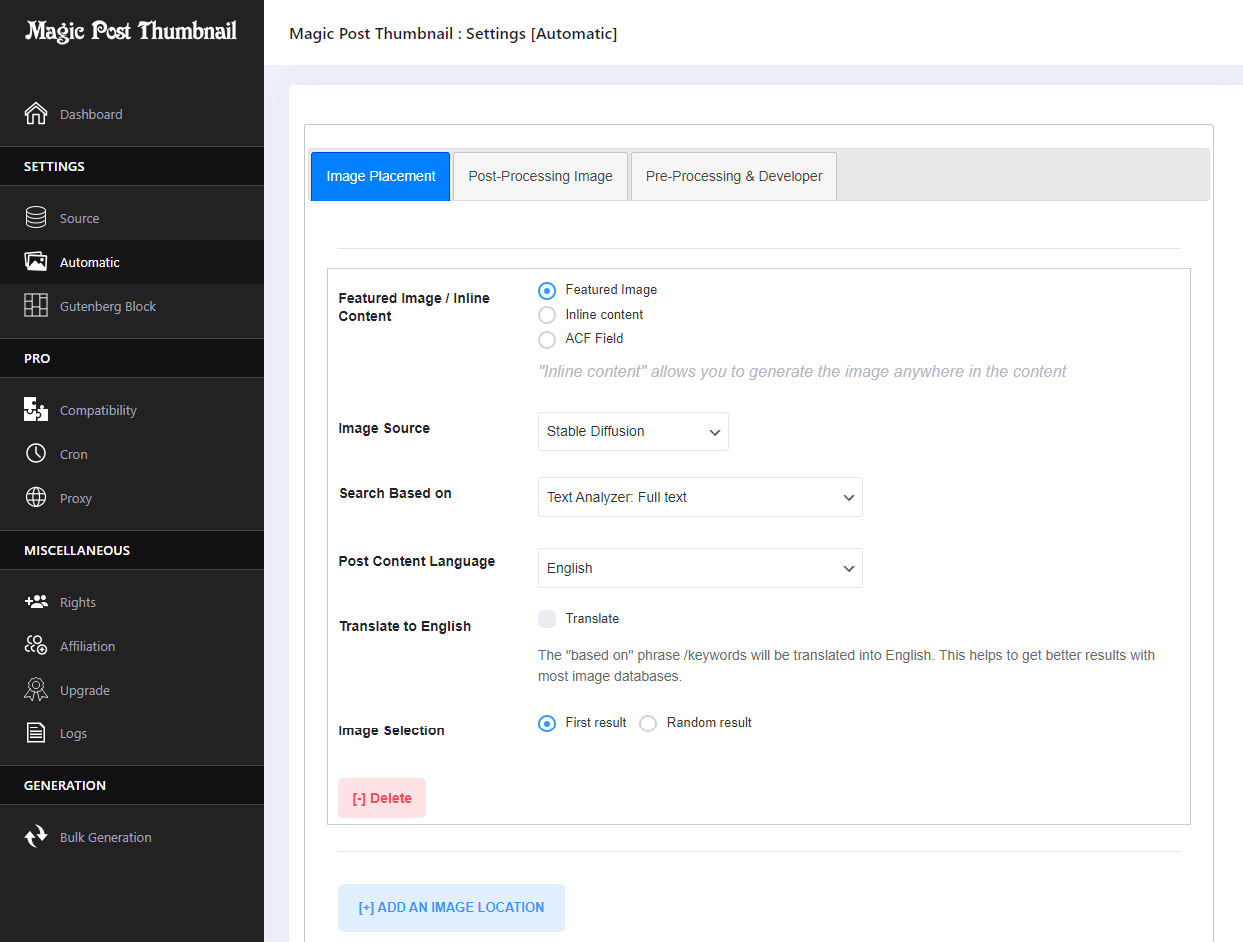
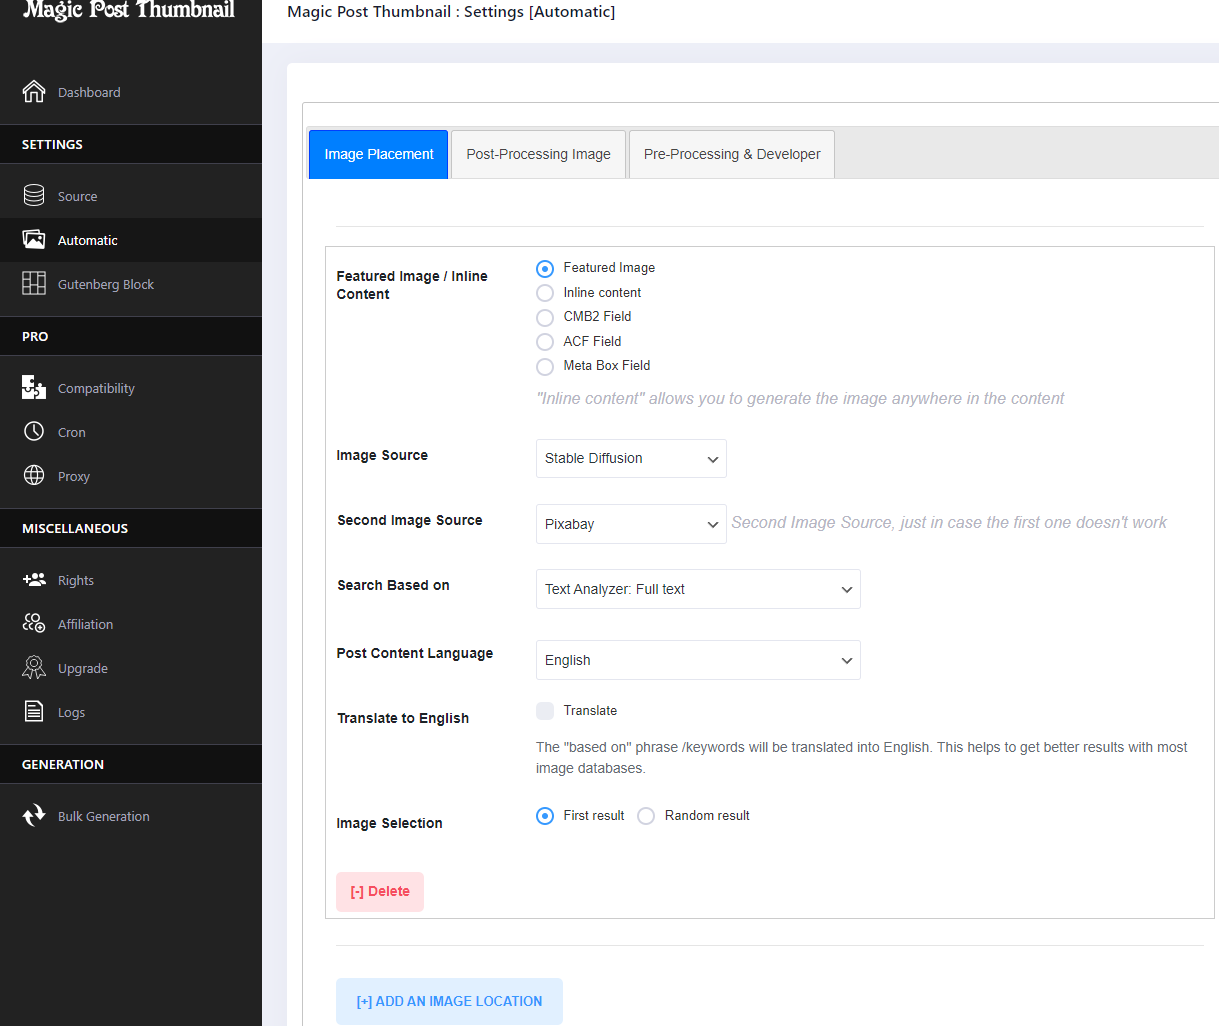
6.0.3

diff --git a/magic-post-thumbnail/admin/class-magic-post-thumbnail-generation.php b/magic-post-thumbnail/admin/class-magic-post-thumbnail-generation.php
@@ -442,34 +442,34 @@ class Magic_Post_Thumbnail_Generation extends Magic_Post_Thumbnail_Admin {
                 }
             }
         } else {
-            /* SET ALL PARAMETERS */
-            $array_parameters = $this->MPT_Get_Parameters( $img_block, $options, $search );
-            $api_url = $array_parameters['url'];
-            unset($array_parameters['url']);
-            if ( !isset( $api_url ) ) {
-                $log->error( 'API URL not provided', array(
+            // Process the main image block
+            $result = $this->MPT_Process_Image_Block(
+                $img_block,
+                $options,
+                $search,
+                $log,
+                $id
+            );
+            // If the first API call fails, try the second image bank
+            if ( $result === false && isset( $img_block['api_chosen_2'] ) && $img_block['api_chosen_2'] !== 'none' ) {
+                $log->info( 'Second image bank used', array(
                     'post' => $id,
                 ) );
+                $img_block['api_chosen'] = $img_block['api_chosen_2'];
+                $result = $this->MPT_Process_Image_Block(
+                    $img_block,
+                    $options,
+                    $search,
+                    $log,
+                    $id
+                );
+            }
+            // If both API calls fail, return false
+            if ( $result === false ) {
                 return false;
             }
-            /* GET THE IMAGE URL */
-            list( $url_results, $file_media, $alt_img, $caption_img ) = $this->MPT_Generate(
-                //$options['api_chosen'],
-                $img_block['api_chosen'],
-                $api_url,
-                $array_parameters,
-                $img_block['selected_image'],
-                false,
-                $search
-            );
-            if ( !isset( $url_results ) || !isset( $file_media ) ) {
-                if ( !isset( $url_results ) || !isset( $file_media ) ) {
-                    $log->error( 'No results', array(
-                        'post' => $id,
-                    ) );
-                    return false;
-                }
-            }
+            // Extract results and continue processing
+            extract( $result );
         }
         $compatibility = wp_parse_args( get_option( 'MPT_plugin_compatibility_settings' ), $this->MPT_default_options_compatibility_settings( TRUE ) );
         $path_parts = pathinfo( $url_results );
@@ -672,6 +672,59 @@ class Magic_Post_Thumbnail_Generation extends Magic_Post_Thumbnail_Admin {
                 }
             }
         }
+    }
+
+    /**
+     * Generate an image and handle related errors
+     * 
+     * @param array $img_block Image block settings
+     * @param array $options Plugin options
+     * @param string $search Search term
+     * @param object $log Logger instance
+     * @param int $id Post ID
+     * @return array|false Returns generated image data or false on failure
+     */
+    private function MPT_Process_Image_Block(
+        $img_block,
+        $options,
+        $search,
+        $log,
+        $id
+    ) {
+        // Set all parameters
+        $array_parameters = $this->MPT_Get_Parameters( $img_block, $options, $search );
+        $api_url = ( isset( $array_parameters['url'] ) ? $array_parameters['url'] : null );
+        unset($array_parameters['url']);
+        // Check if API URL is provided
+        if ( !$api_url ) {
+            $log->error( 'API URL not provided', array(
+                'post' => $id,
+            ) );
+            return false;
+        }
+        // Get the image URL
+        list( $url_results, $file_media, $alt_img, $caption_img ) = $this->MPT_Generate(
+            $img_block['api_chosen'],
+            $api_url,
+            $array_parameters,
+            $img_block['selected_image'],
+            false,
+            $search
+        );
+        // Check if results are valid
+        if ( !isset( $url_results ) || !isset( $file_media ) ) {
+            $log->error( 'No results', array(
+                'post' => $id,
+            ) );
+            return false;
+        }
+        // Return the generated image data
+        return compact(
+            'url_results',
+            'file_media',
+            'alt_img',
+            'caption_img'
+        );
     }
 
     /**
@@ -1458,6 +1511,14 @@ class Magic_Post_Thumbnail_Generation extends Magic_Post_Thumbnail_Admin {
             );
         } else {
             $result_body = json_decode( $result['body'], true );
+            // Dall-e: Catch the error
+            if ( $service == 'dallev1' && $result_body['error']['message'] ) {
+                //error_log( print_r( $result, true ) );
+                $log = $this->MPT_monolog_call();
+                $log->info( 'Problem with Dalle', array(
+                    'Error message' => $result_body['error']['message'],
+                ) );
+            }
             if ( $result['response']['code'] != '200' ) {
                 return false;
             }

diff --git a/magic-post-thumbnail/admin/partials/tabs/automatic/places.php b/magic-post-thumbnail/admin/partials/tabs/automatic/places.php
@@ -242,6 +242,51 @@ if ( !empty( $image_blocks ) ) {
                 </td>
             </tr>
 
+
+            <tr valign="top" class="section_custom_image_bank image-block-<?php 
+        echo $blockIndex;
+        ?> mid-add-block-img">
+                <th scope="row">
+                    <label for="hseparator"><?php 
+        esc_html_e( 'Second Image Source', 'mpt' );
+        ?></label>
+                </th>
+                <td class="custom_image_size" valign="top">
+                    <label>
+                        <select name="MPT_plugin_main_settings[image_block][<?php 
+        echo $blockIndex;
+        ?>][api_chosen_2]" class="select-custom-location form-control">
+                            <option value="none"><?php 
+        esc_html_e( 'None', 'mpt' );
+        ?></option>
+                            <?php 
+        foreach ( $list_api_auto as $api_auto_name => $api_auto_id ) {
+            if ( true === $api_auto_id[1] ) {
+                $disabled = '';
+            } else {
+                $disabled = 'disabled';
+            }
+            ?>
+                                        <option <?php 
+            echo $disabled;
+            ?> value="<?php 
+            echo $api_auto_id[0];
+            ?>" <?php 
+            echo ( isset( $block['api_chosen_2'] ) ? selected( $block['api_chosen_2'], $api_auto_id[0], false ) : '' );
+            ?>><?php 
+            echo $api_auto_name;
+            ?></option>
+                            <?php 
+        }
+        ?>
+                        </select> 
+                        <i><?php 
+        esc_html_e( 'Second Image Source, just in case the first one doesn\'t work', 'mpt' );
+        ?></i>
+                    </label>
+                </td>
+            </tr>
+
             <?php 
         include 'basedon.php';
         $class_remove_btn = 'remove-block-btn-hidden';

diff --git a/magic-post-thumbnail/admin/partials/tabs/automatic/places_template.php b/magic-post-thumbnail/admin/partials/tabs/automatic/places_template.php
@@ -158,6 +158,36 @@ foreach ( $list_api_auto as $api_auto_name => $api_auto_id ) {
     </td>
 </tr>
 
+<tr valign="top" class="section_custom_image_bank hidden image-location-template image-block-0 mid-add-block-img">
+    <th scope="row">
+        <label for="hseparator"><?php 
+esc_html_e( 'Second Image Source', 'mpt' );
+?></label>
+    </th>
+    <td class="custom_image_size" valign="top">
+        <label>
+            <select name="MPT_plugin_main_settings[image_block][0][api_chosen_2]" class="select-custom-location form-control">
+                <option value="none"><?php 
+esc_html_e( 'None', 'mpt' );
+?></option>
+                <?php 
+foreach ( $list_api_auto as $api_auto_name => $api_auto_id ) {
+    if ( true === $api_auto_id[1] ) {
+        ?>
+                        <option value="<?php 
+        echo $api_auto_id[0];
+        ?>"><?php 
+        echo $api_auto_name;
+        ?></option>
+                <?php 
+    }
+}
+?>
+            </select> 
+        </label>
+    </td>
+</tr>
+
 
 
 <tr valign="top" class="section_basedon image-location-template hidden image-block-0 mid-add-block-img">

diff --git a/magic-post-thumbnail/magic-post-thumbnail.php b/magic-post-thumbnail/magic-post-thumbnail.php
@@ -10,7 +10,7 @@
  * Plugin Name:       Magic Post Thumbnail
  * Plugin URI:        http://wordpress.org/plugins/magic-post-thumbnail/
  * Description:       Add stunning images to your posts effortlessly, as featured images or within content. Magic Post Thumbnail sources them automatically from multiple image banks.
- * Version:           6.0.2
+ * Version:           6.0.3
  * Author:            Magic Post Thumbnail
  * Author URI:        https://magic-post-thumbnail.com/
  * License:           GPL-2.0+
@@ -72,7 +72,7 @@ if ( function_exists( 'mpt_freemius' ) ) {
      * Start at version 1.0.0 and use SemVer - https://semver.org
      * Rename this for your plugin and update it as you release new versions.
      */
-    define( 'MAGIC_POST_THUMBNAIL_VERSION', '6.0.2' );
+    define( 'MAGIC_POST_THUMBNAIL_VERSION', '6.0.3' );
     /**
      * The code that runs during plugin activation.
      * This action is documented in includes/class-magic-post-thumbnail-activator.php
